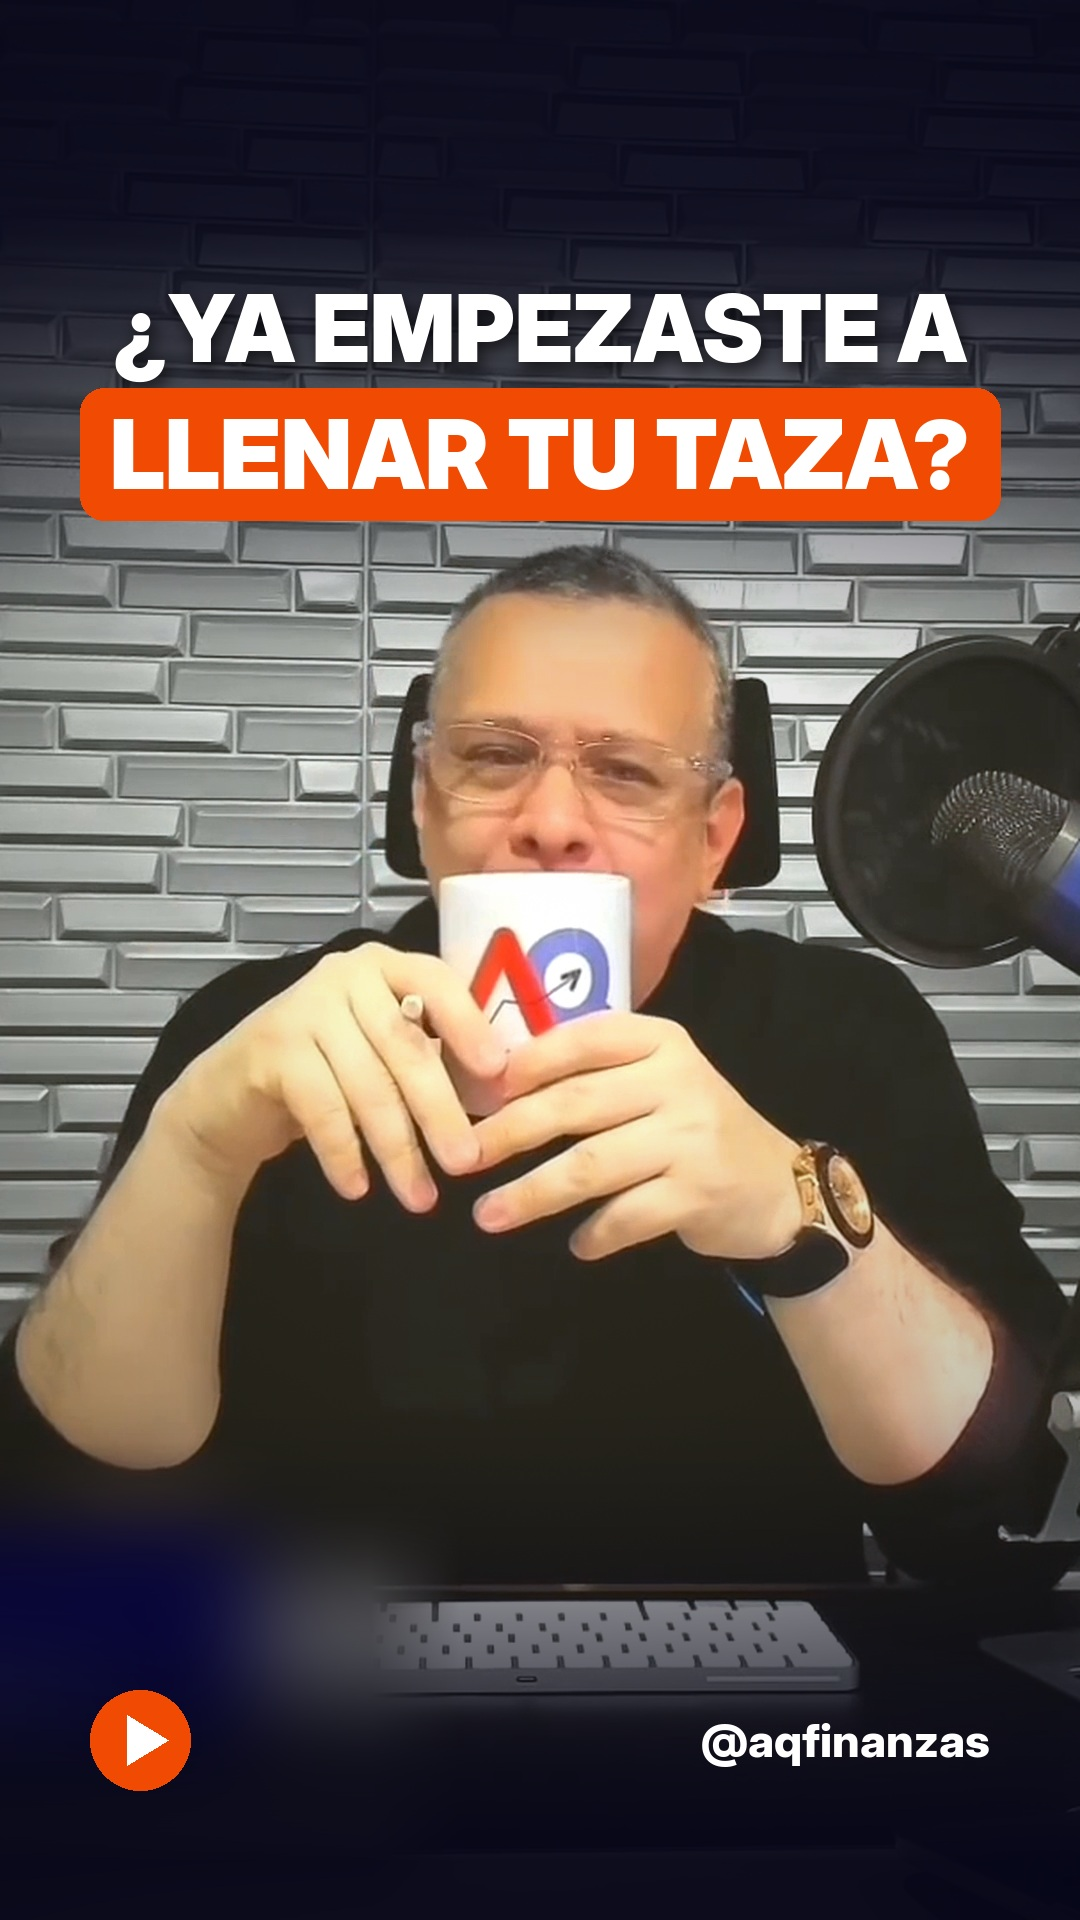
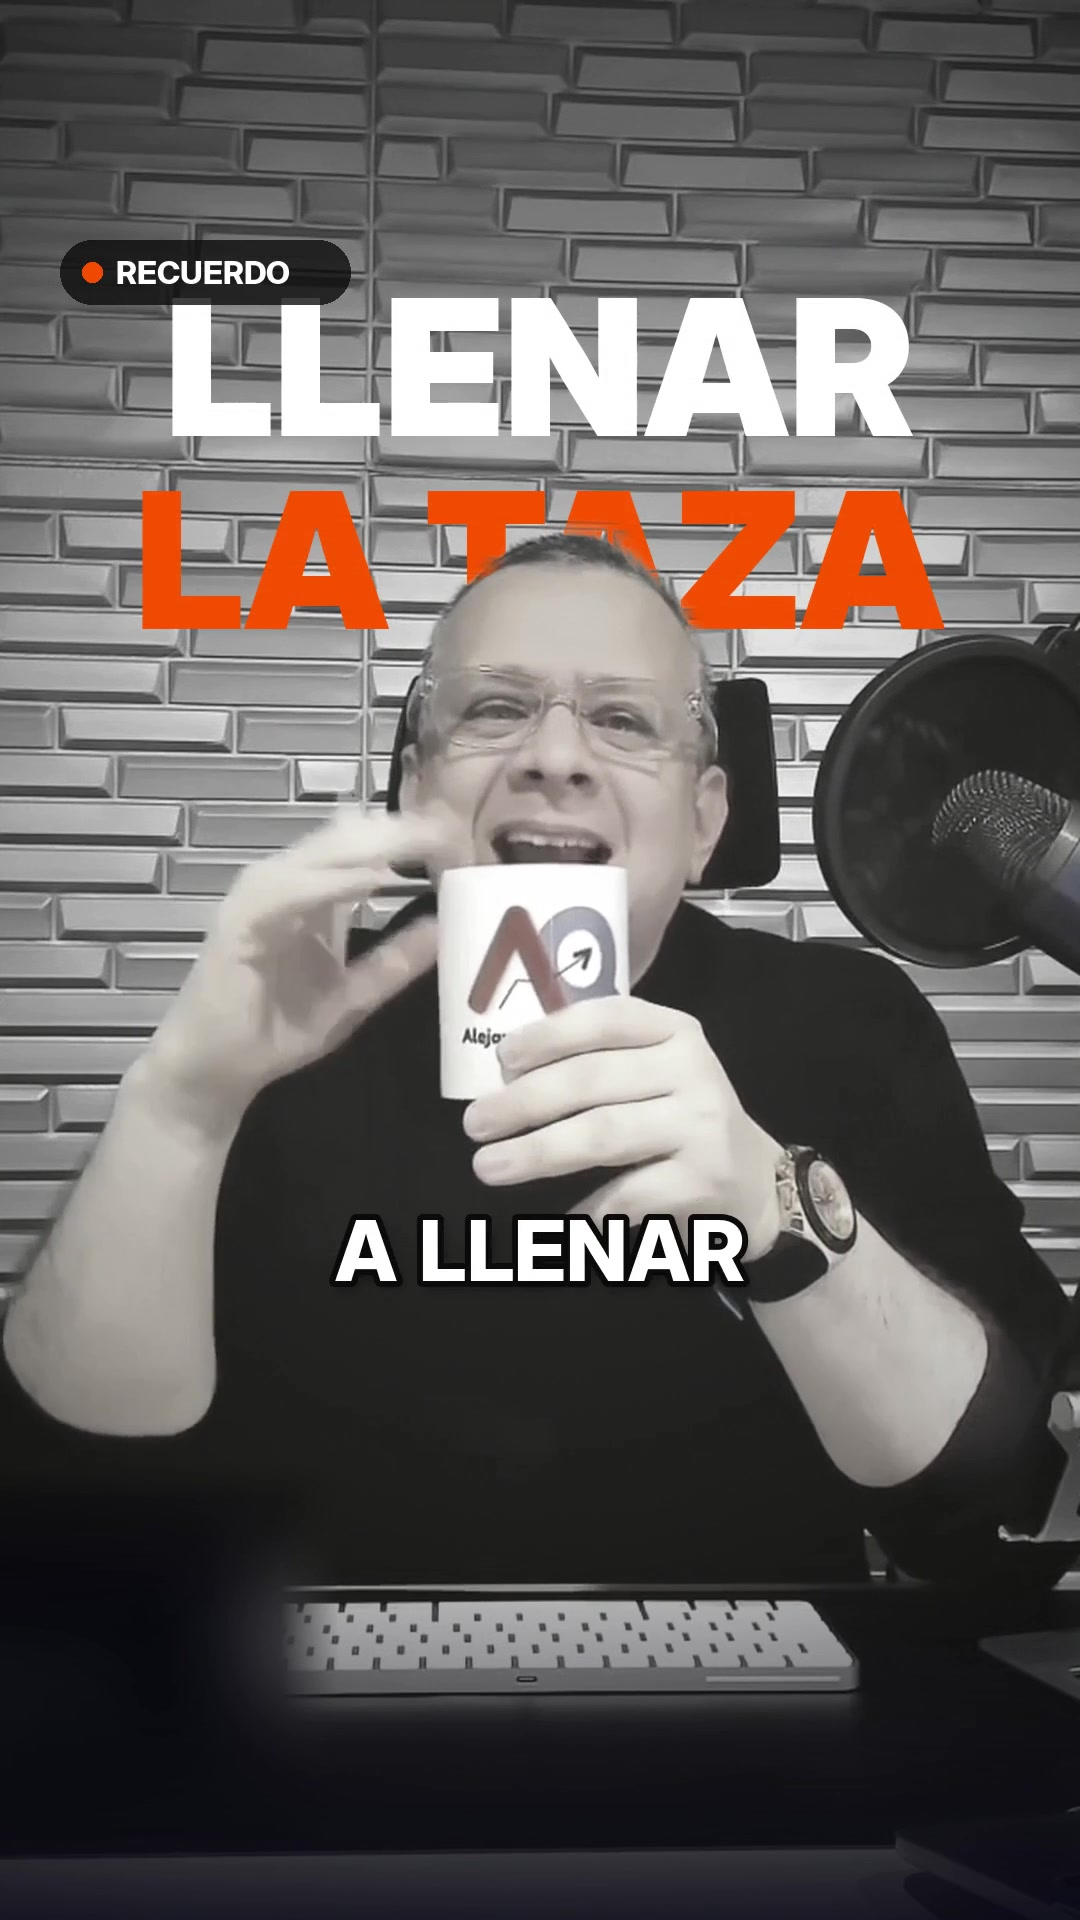
Portada del reel taza: seg 3,9 elegido por Alejandro
Claude-Session: https://claude.ai/code/session_013XbpDTjXNyrRjQ6JG6gfd3

diff --git a/publicaciones/ORDEN-FEED.md b/publicaciones/ORDEN-FEED.md
@@ -13,7 +13,7 @@ No poner etiqueta "REEL" arriba a la derecha (choca con el ícono de Instagram).
 | 2026-10-22 19:00 | Carrusel (7) | Antes de ganar, define cuánto puedes perder (Riesgo RCR) | Naranja dominante sin foto (velas + STOP) + RIESGO gigante; interiores crema | 2026-10-22-carrusel-riesgo |
 | 2026-11-07 | Reel | ¿Cuánto te queda al final de mes? (de la clase en Vimeo) | Portada = fotograma seg. 7,6 ("¿CUÁNTO TE QUEDA?" naranja detrás) | 2026-11-07-reel-cuanto-te-queda |
 | 2026-11-08 08:00 | Post | ¿Hasta qué mes llegas? (dolor, calendario) | Crema editorial sin foto, calendario + trazo naranja a mano | 2026-11-08-post-hasta-que-mes |
-| 2026-11-08 19:00 | Reel | La taza financiera | Portada con la taza AQ + "¿YA EMPEZASTE A LLENAR TU TAZA?" | 2026-11-08-reel-taza-financiera |
+| 2026-11-08 19:00 | Reel | La taza financiera | Portada = fotograma seg. 3,9 (B/N RECUERDO + LLENAR LA TAZA) | 2026-11-08-reel-taza-financiera |
 | (pendiente) | Reel | Las 3 causas de tus problemas financieros | Cinematográfico oscuro, foto IA seria | reel-3-causas |
 
 Próxima pieza: progresión de tonos; tras naranja (22 oct noche) evitar naranja dominante; buen siguiente: claro/blanco o azul marino.

diff --git a/publicaciones/2026-11-08-reel-taza-financiera/ficha.md b/publicaciones/2026-11-08-reel-taza-financiera/ficha.md
@@ -1,5 +1,5 @@
 # Reel · La taza financiera
 
 - Fuente: Clase Landing Llamadas 1 a 1 (min 6:23–7:53), Vimeo
-- Portada: seg. 12,5 (con la taza AQ) + "¿YA EMPEZASTE A LLENAR TU TAZA?"
+- Portada: fotograma del seg. 3,9 del reel (B/N "RECUERDO" + "LLENAR LA TAZA"), elegida por Alejandro
 - Programado: 8-nov-2026 7:00 p. m. (IG + FB)
